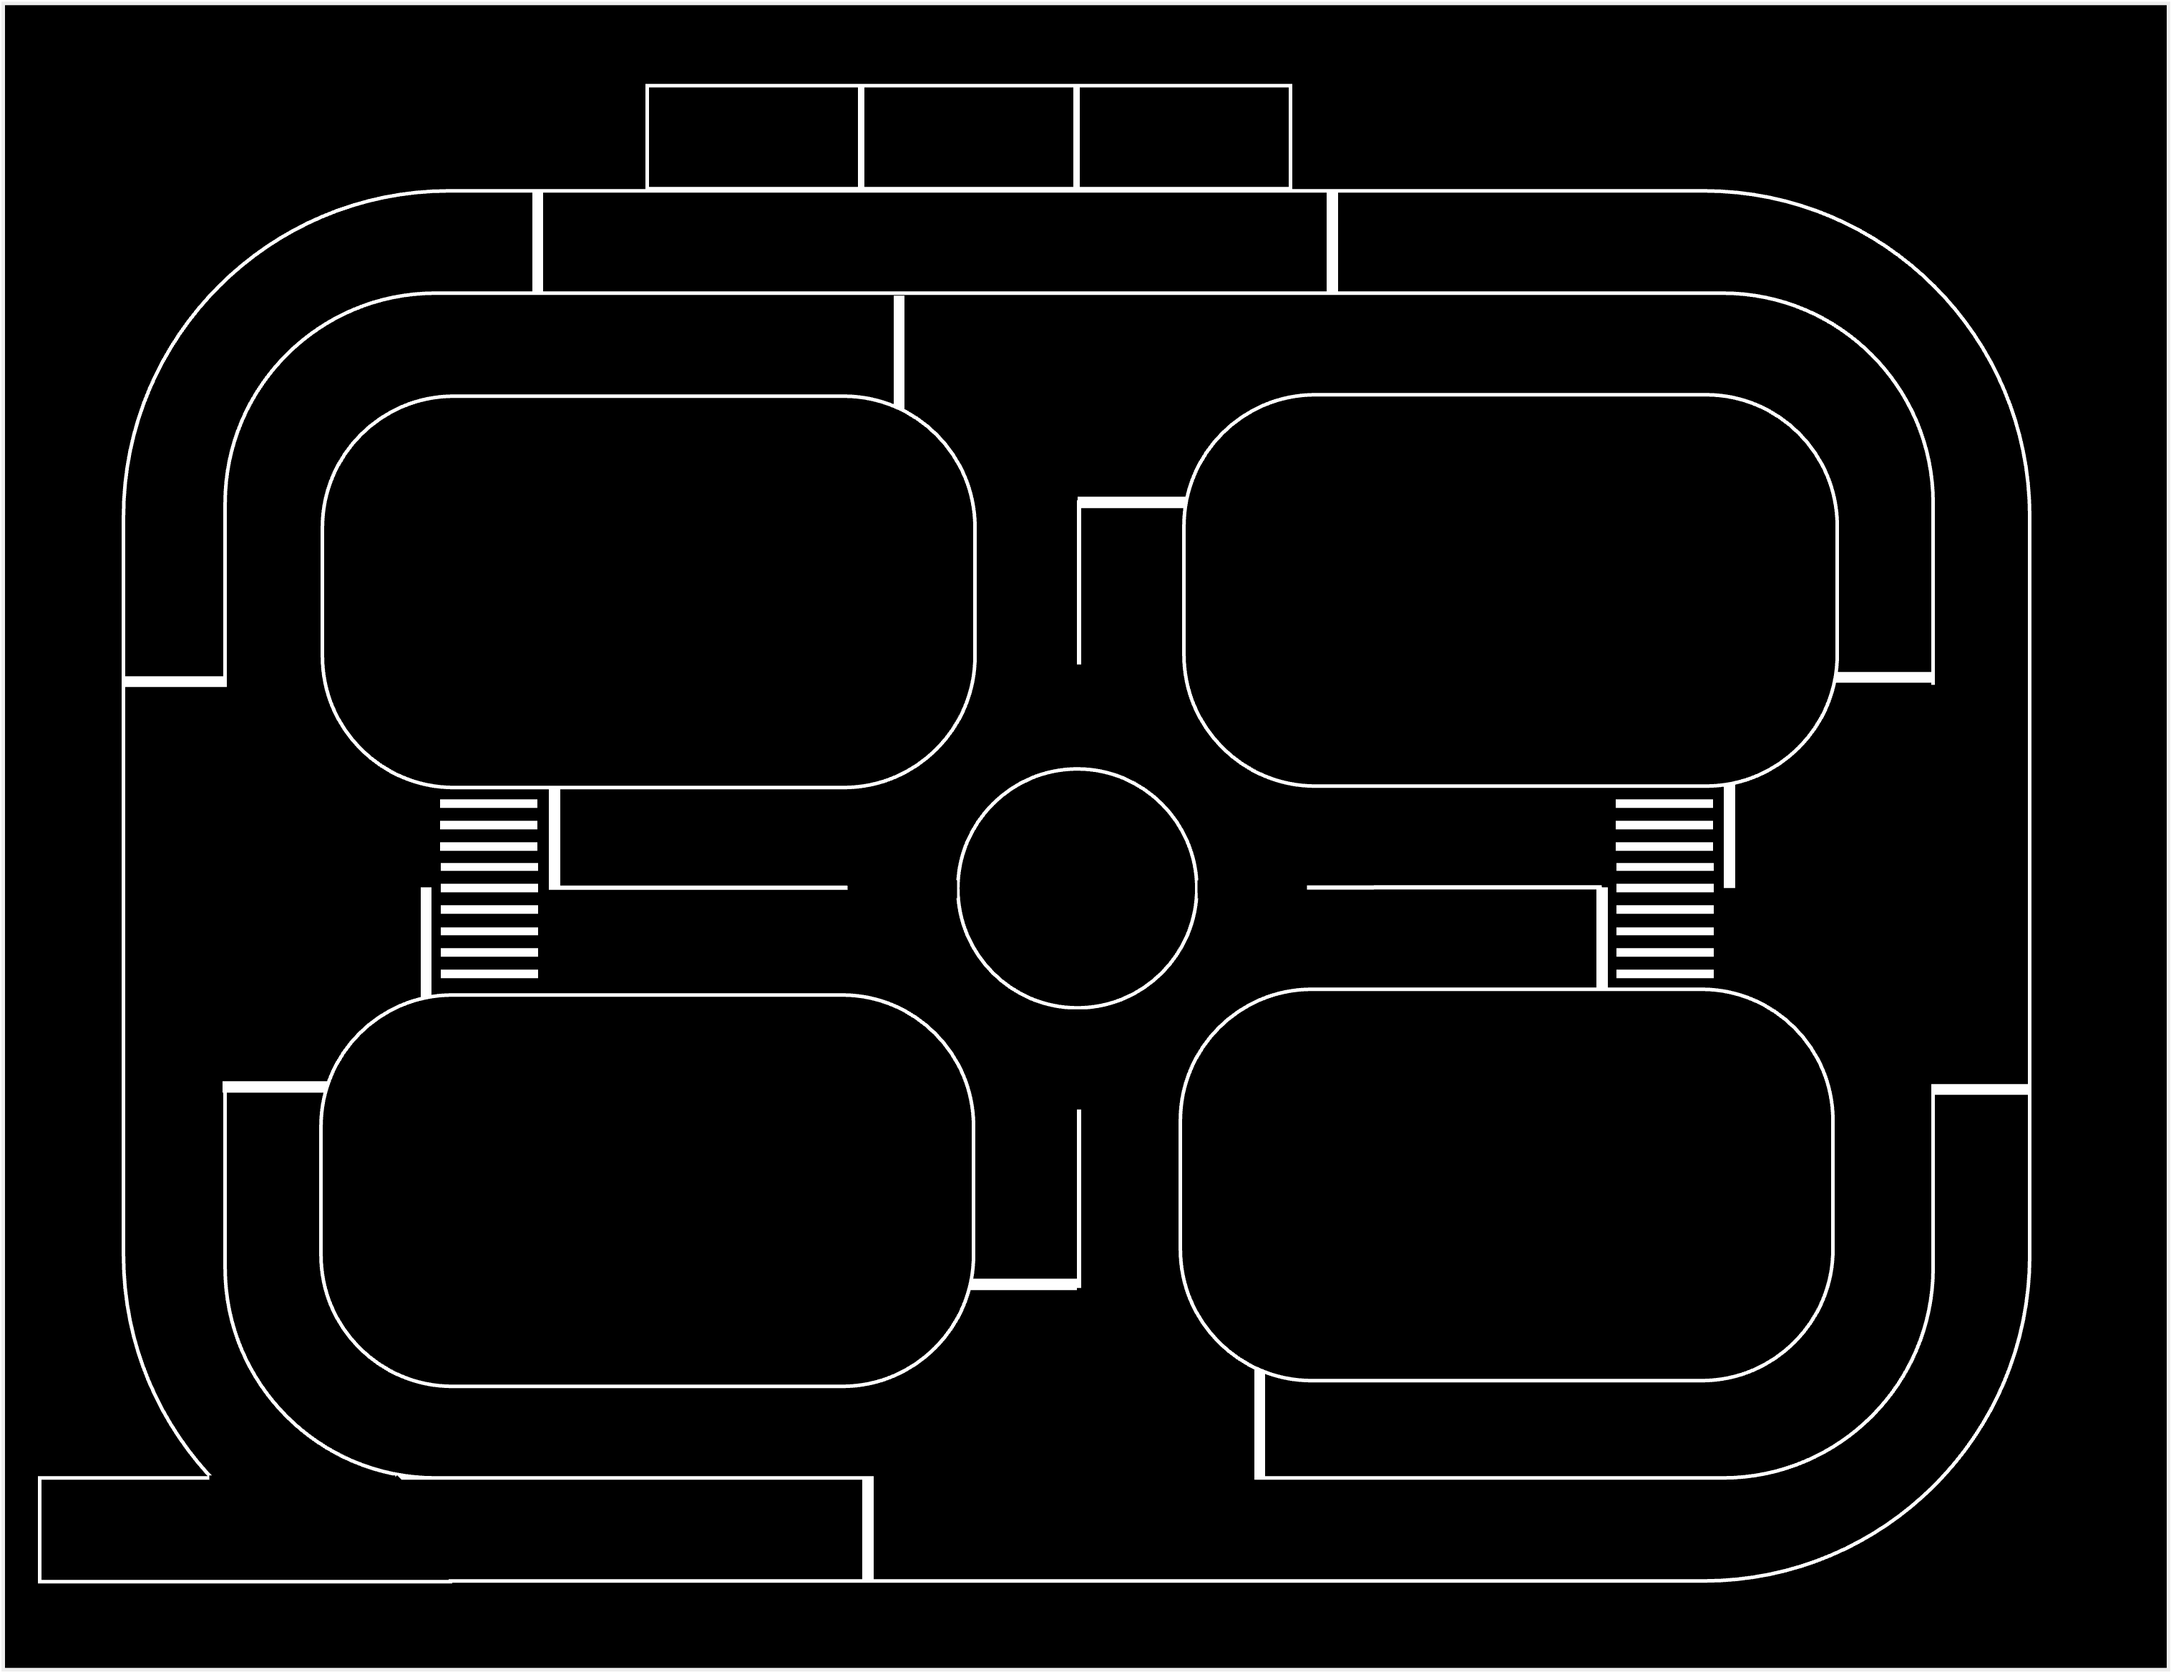
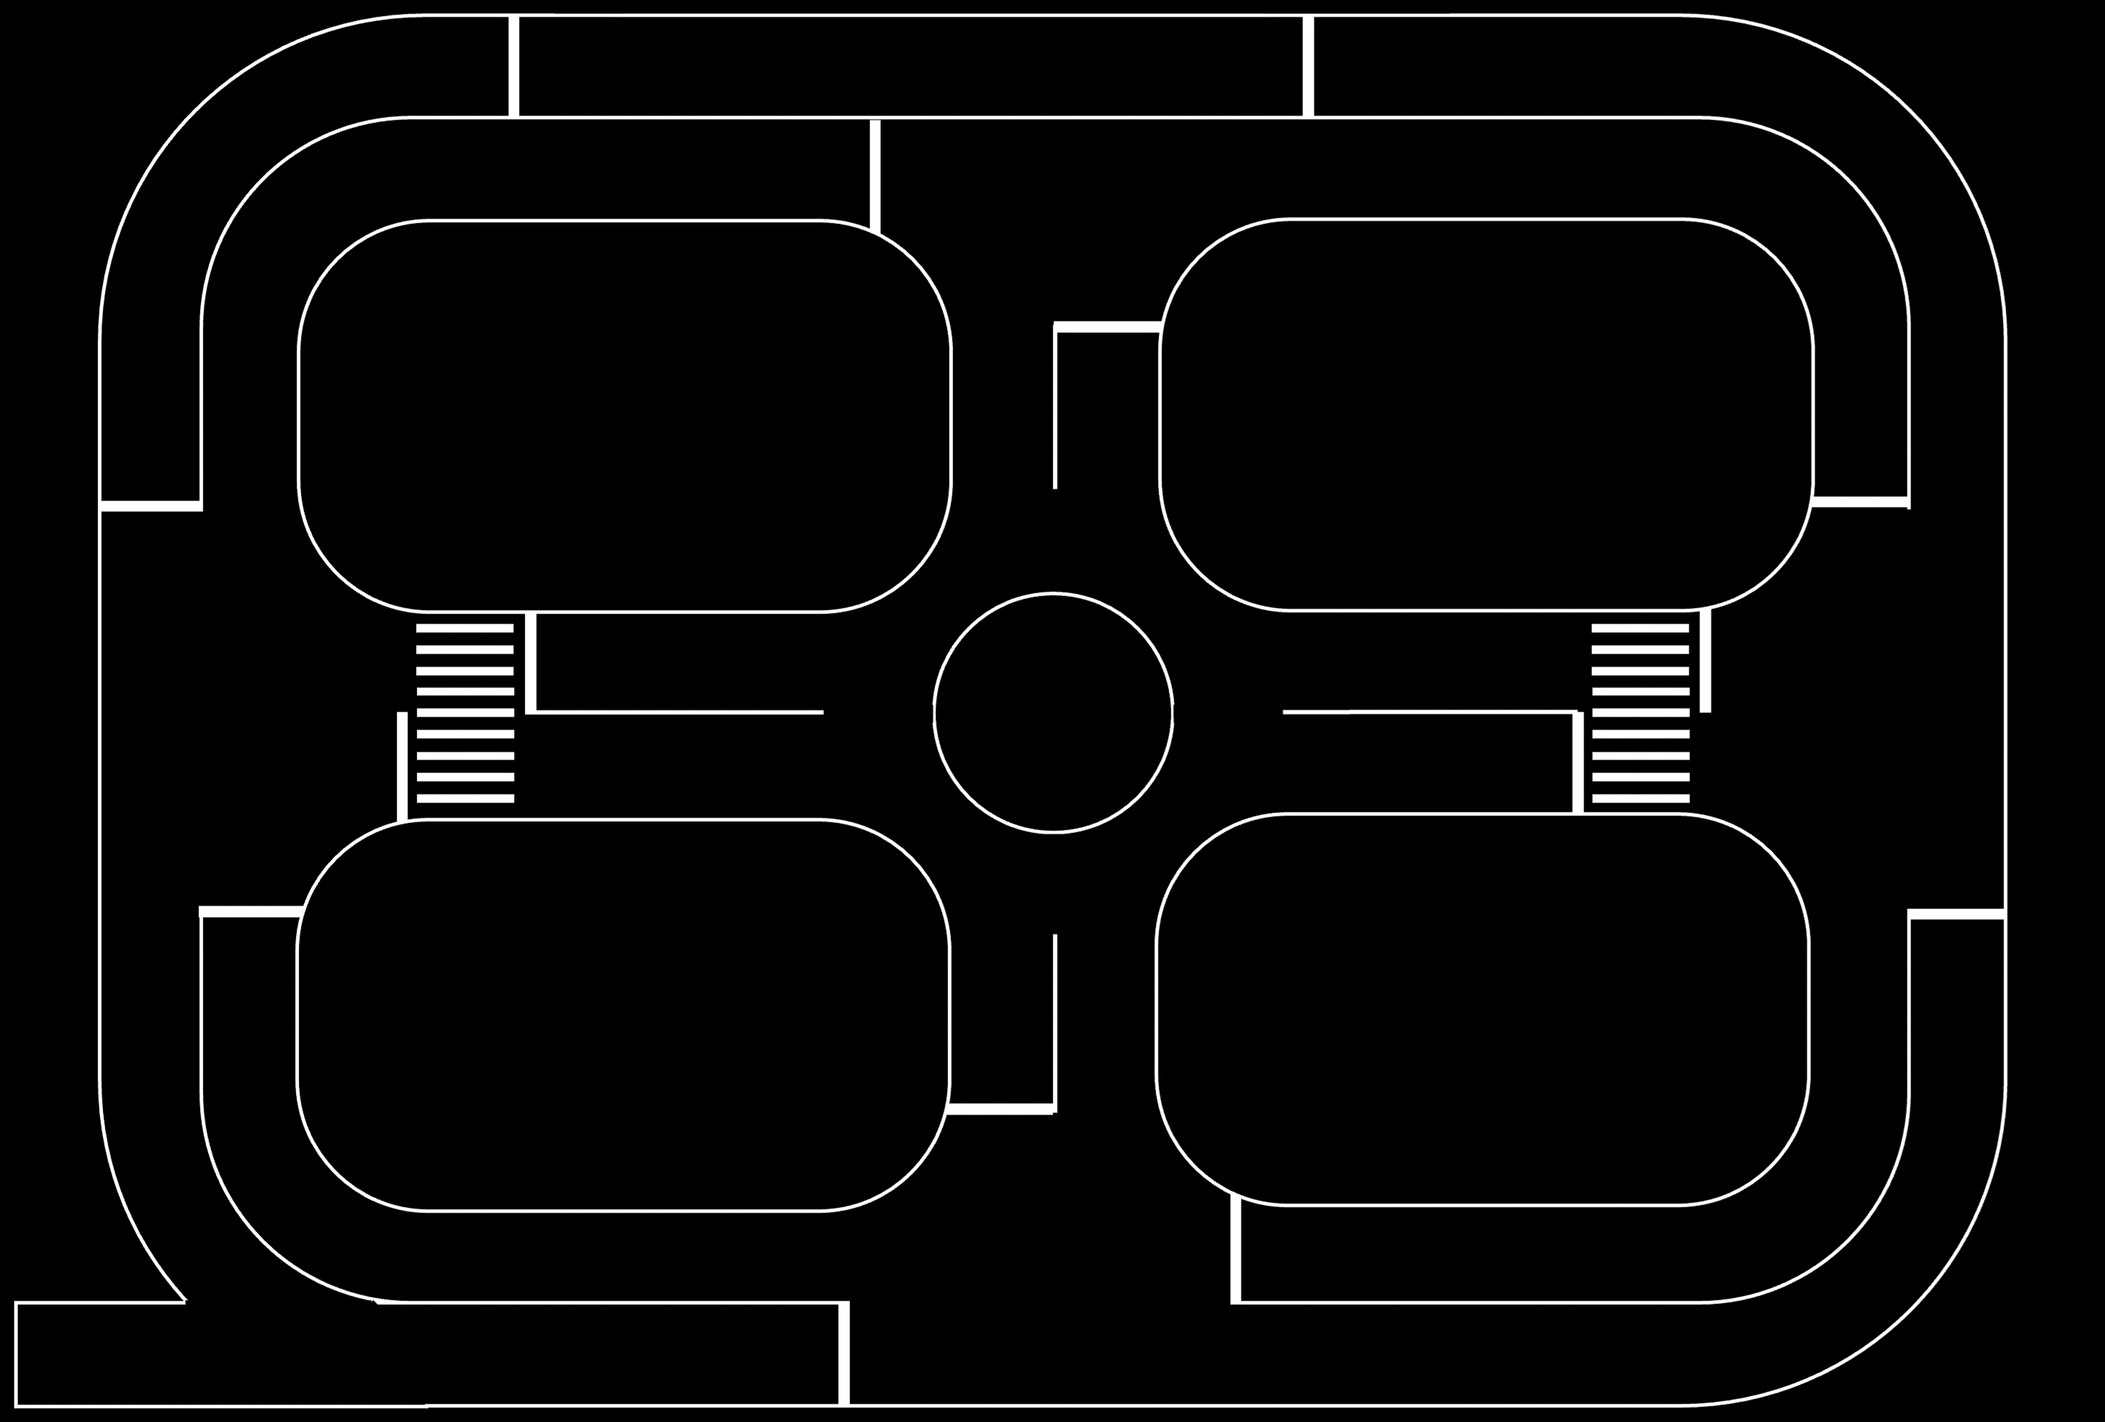
GPS with map and location

diff --git a/src/qml/main.qml b/src/qml/main.qml
@@ -484,6 +484,26 @@ Window {
                 fillMode: Image.PreserveAspectFit
                 anchors.centerIn: parent
             }
+
+            Rectangle {
+                width: 30
+                height: 30
+                color: "white"
+                radius: 15
+                opacity: 0.7
+
+                x: 61
+                y: 361
+                rotation: -(0)
+
+                Image {
+                    source: "../image/location.png"
+                    width: 30
+                    height: 30
+                    fillMode: Image.PreserveAspectFit
+                    anchors.centerIn: parent
+                }
+            }
         }
 
         //==================================================//
